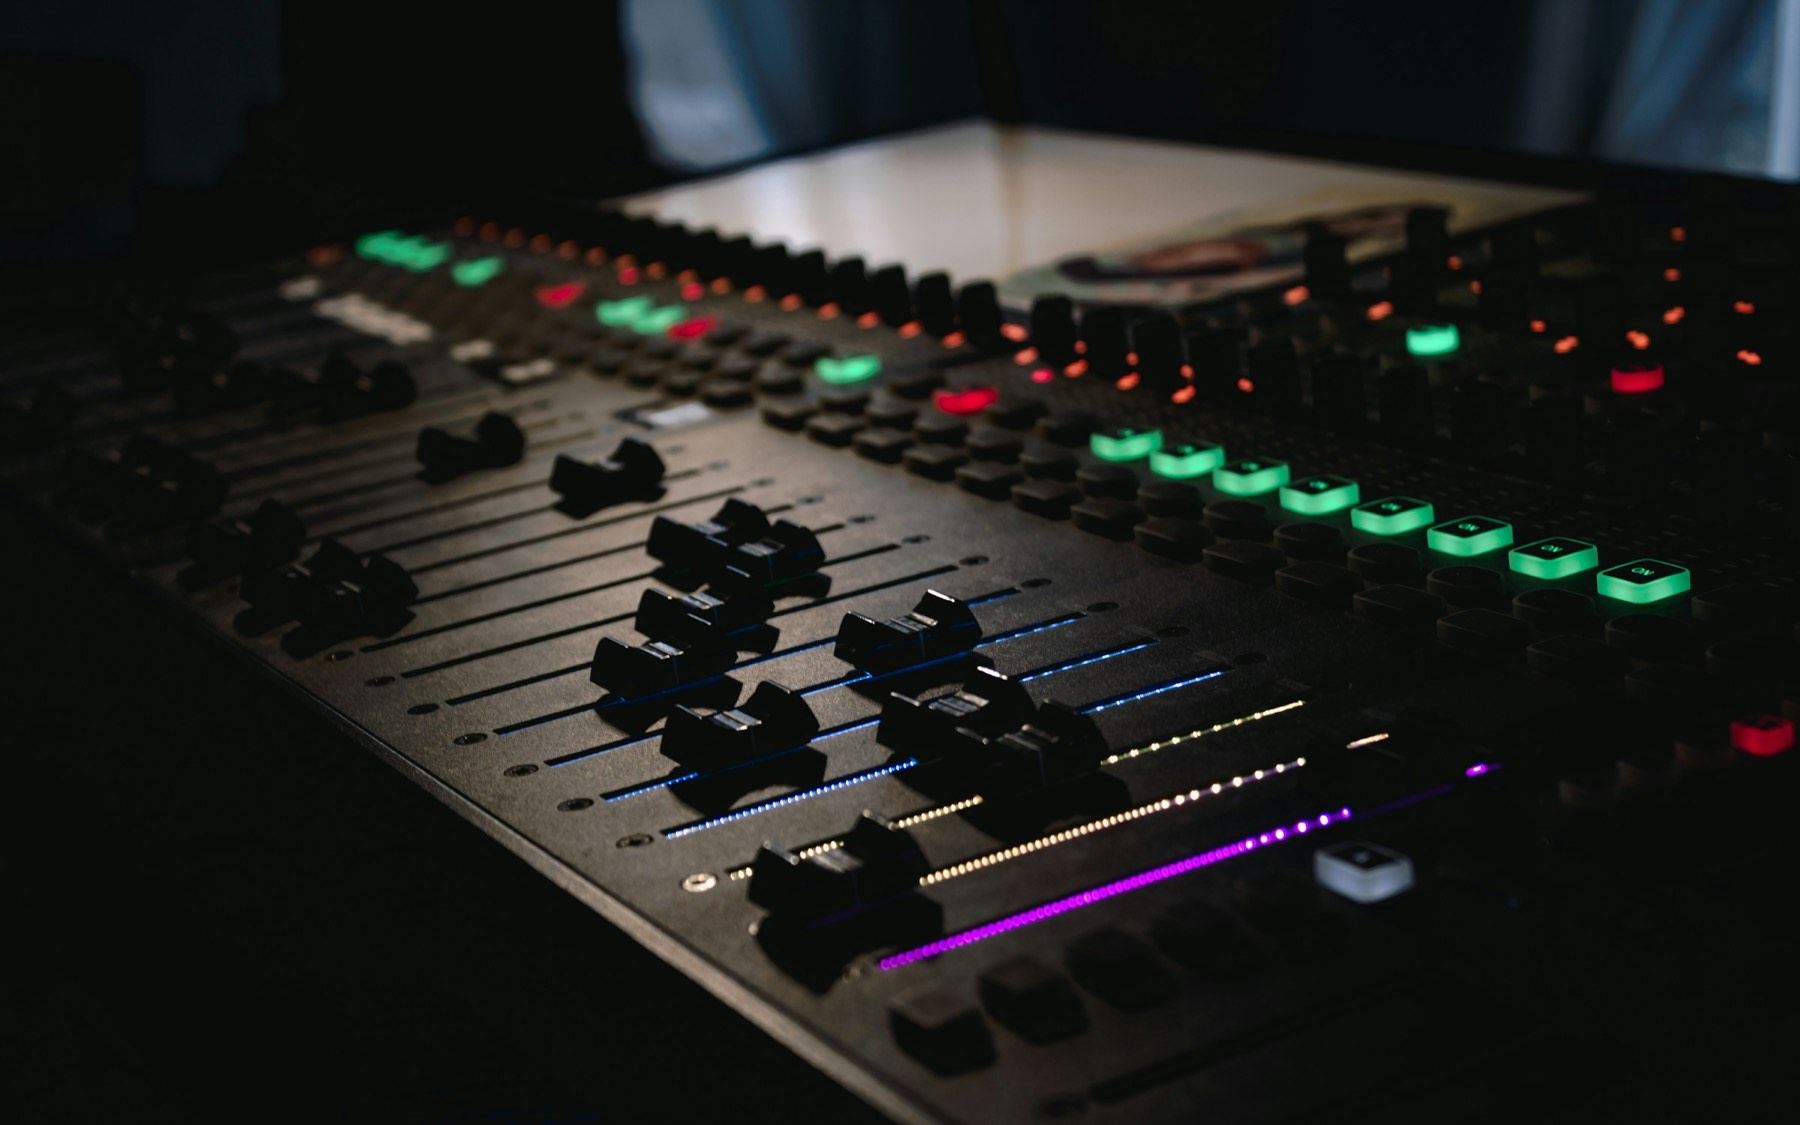
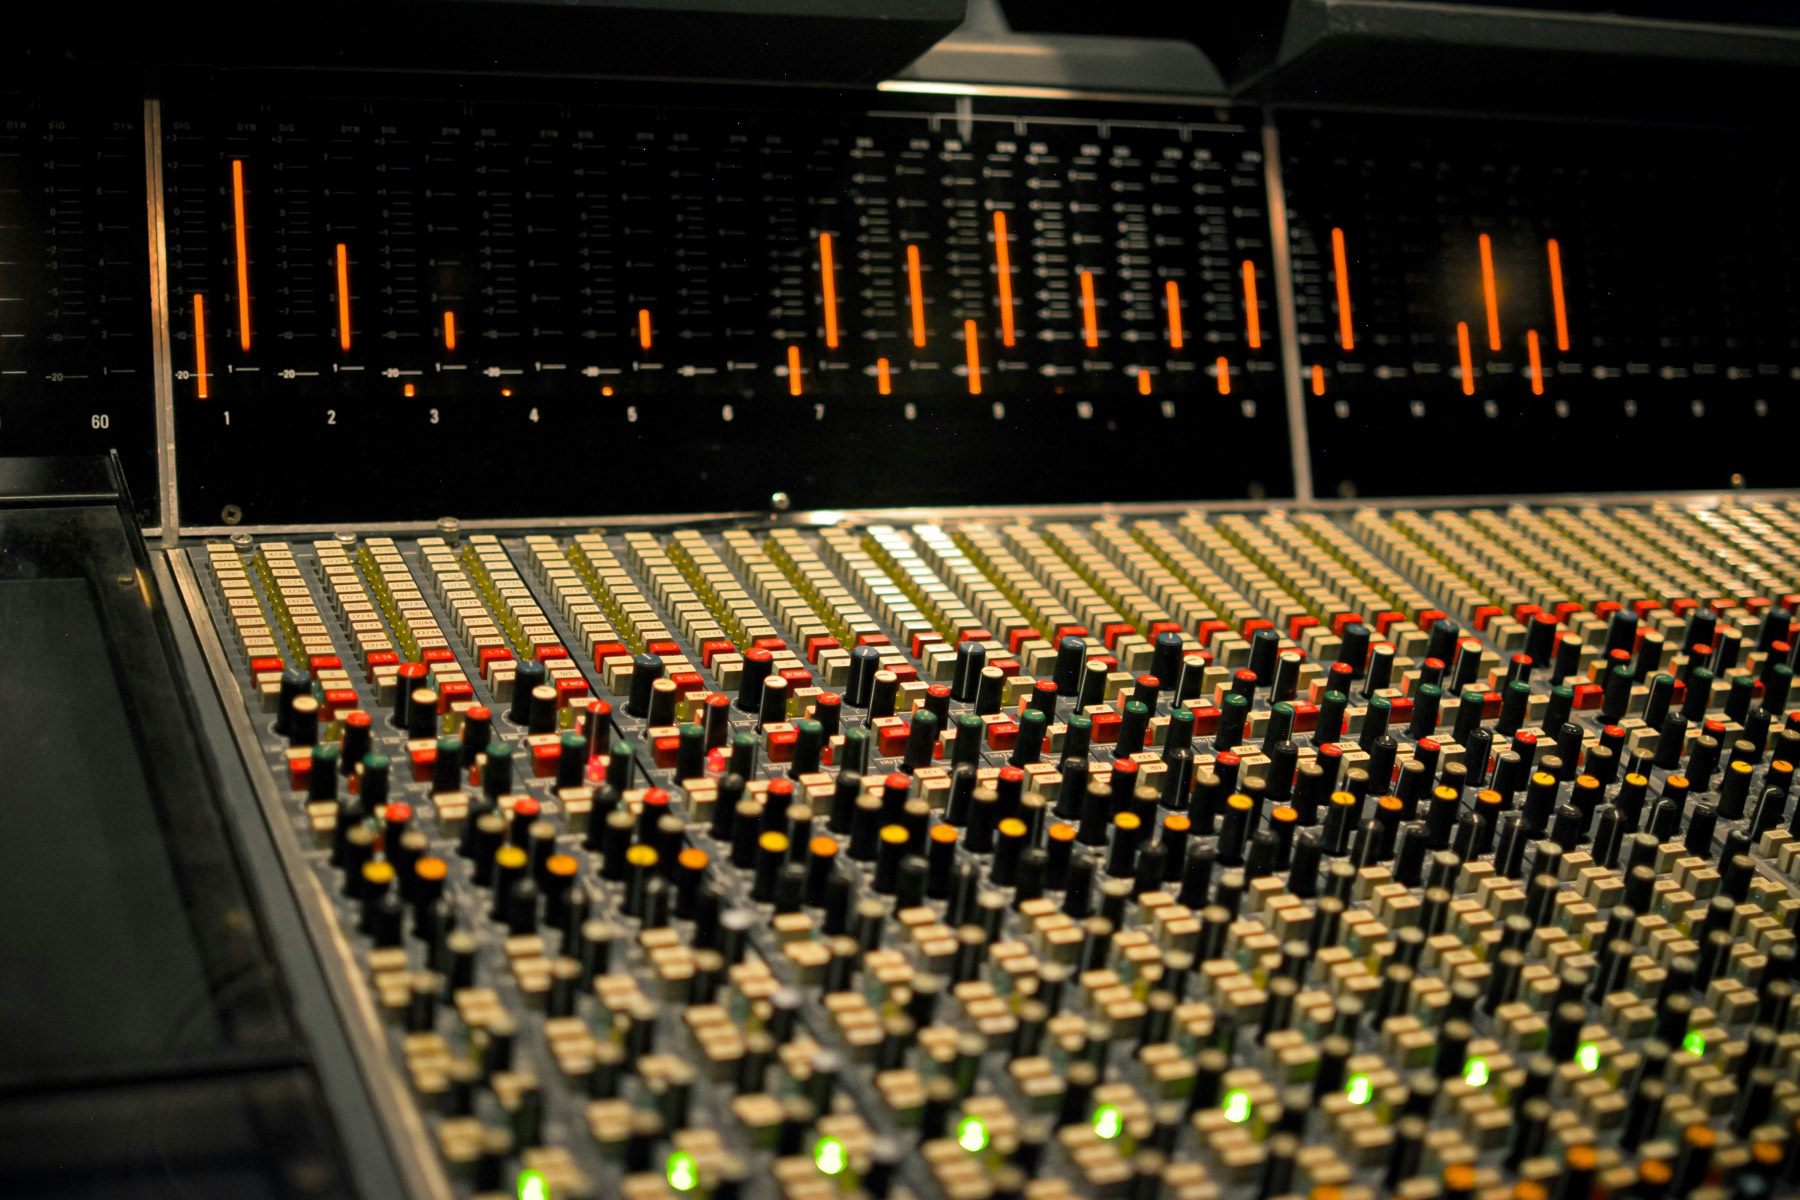
Swap hero background to a Neve-style studio console photo
User-picked from a fresh Unsplash search for an SSL/API/Neve-style
large-format console look, consistent with the Pro Tools positioning.

Claude-Session: https://claude.ai/code/session_013ZA7u3vMrYURasN95ajHbz

diff --git a/index.html b/index.html
@@ -69,12 +69,12 @@
   @media (max-width:640px){ .nav-links{display:none;} }
 
   /* ---------- hero ---------- */
-  /* hero-console.jpg: photo by James Kovin on Unsplash (Unsplash License,
-     free for commercial use, no attribution required - credited here anyway).
-     Swapped 2026-10-05 from the original Michael Weibel photo - that one's
-     faders/knobs all sat at a neutral/centered rest position, which read
-     as a showroom photo rather than a console mid-session.
-     https://unsplash.com/photos/black-and-green-audio-mixer-F2h_WbKnX4o */
+  /* hero-console.jpg: "Neve Sound Board" by Conner Darnell on Unsplash
+     (Unsplash License, free for commercial use, no attribution required -
+     credited here anyway). Swapped 2026-10-05 again, user-picked from a
+     fresh search - classic Neve-style large-format console, cream knobs,
+     lit orange meter bridge at varied levels (not all zero).
+     https://unsplash.com/photos/black-audio-mixer-with-audio-mixer-yk0c7Ww_ws8 */
   .hero{
     position:relative; isolation:isolate; overflow:hidden;
     margin-inline:calc(50% - 50vw); padding-inline:max(16px, calc(50vw - 504px));
